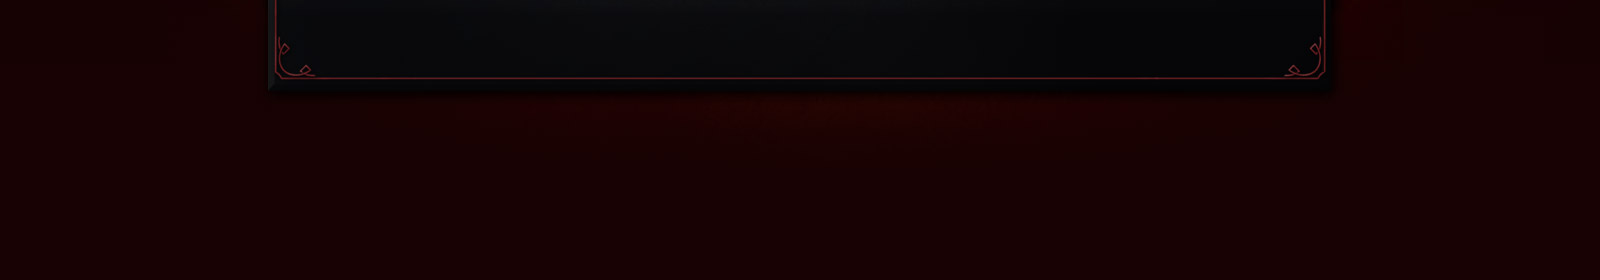
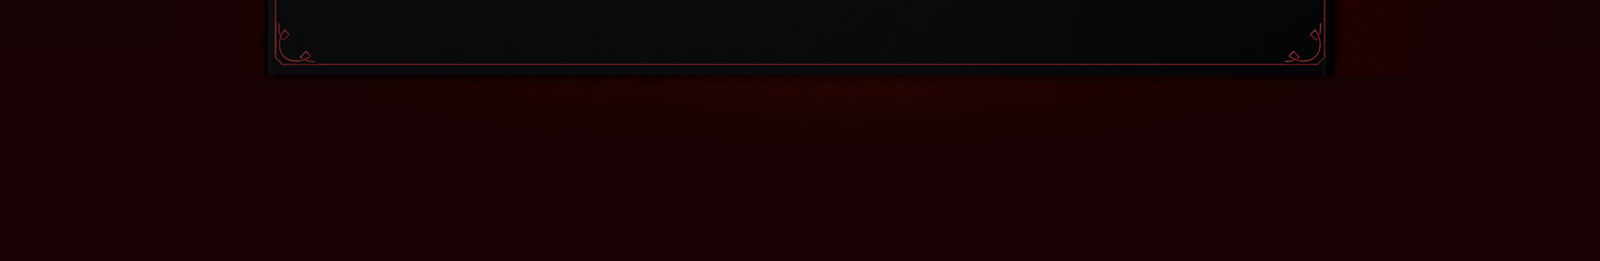
mofication de certaine image du design

Changed region(s): [[0.1562, 0.2146, 0.8438, 0.3372], [0.8125, 0.1226, 0.8438, 0.1839], [0.1562, 0.1226, 0.1875, 0.1839]]

diff --git a/static/wait.css b/static/wait.css
@@ -134,7 +134,7 @@ h3 {
 #contenu {
     color:grey;
     background-color:#160203;
-    background-image:url('http://media.steampowered.com/apps/dota2/images/international/main_bg.jpg');
+    background-image:url('images/design/main.jpg');
     background-position:center;
     background-repeat: repeat-y;
     width: 1080px;
